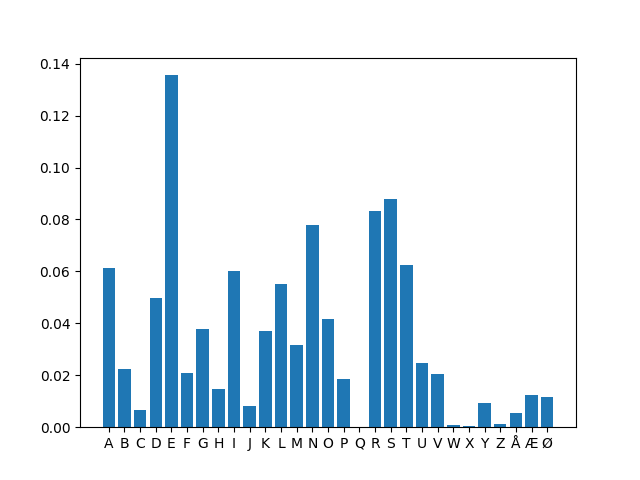
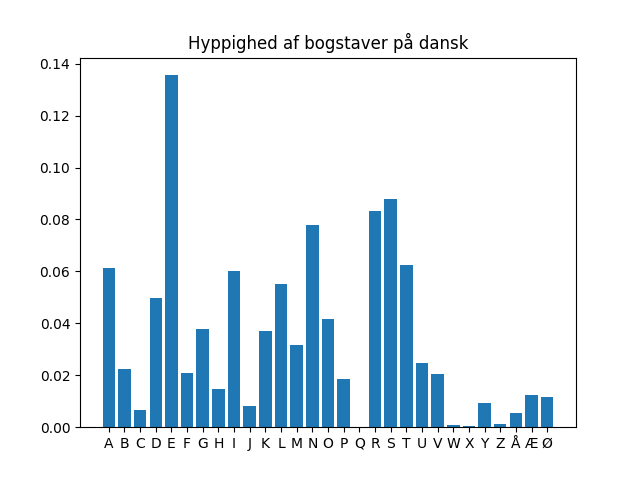
fig

Changed region(s): [[0.2812, 0.0625, 0.75, 0.125]]

diff --git a/src/preprocess.py b/src/preprocess.py
@@ -38,6 +38,7 @@ y = [freqs[key] for key in keys]
 total = sum(y)
 y = [val/total for val in y]
 plt.bar(x, y)
+plt.title('Hyppighed af bogstaver på dansk')
 plt.savefig('../images/frekvenser.png')
 with open('../data/frekvenser.csv', 'w') as fo:
     fo.write(f'BOGSTAV,FREKVENS\n')

diff --git a/GENERATE.md b/GENERATE.md
@@ -1,1 +1,20 @@
 # Program til at genere spilleplader
+
+Generator-algoritmen:
+1. vælg tilfældigt et ord på mellem 5-8 tegn fra ordbogen
+1. placer ordet tilfældigt på spillepladen ved hjælp af placerings-algoritmen
+1. udfyld tomme felter ved at sample et bogstav fra det danske alfabet med sandsynlighed = frekvens af bogstav (se figur).
+
+Placerings-algoritmen:
+
+1. vælg et tilfældigt startsted på pladen og skriv første bogstav der
+1. vælg tilfældigt en ubrugt nabo til næste bogstav
+1. hvis hele ord placeret: afslut
+1. hvis ikke flere ubrugte naboer, gå til 1 (prøv forfra)
+1. gå til 2
+
+Den relative frekvens af bogstaver på dansk ses i figuren herunder.
+
+![](./images/frekvenser.png)
+
+Cirka 13% af bogstaverne i danske ord er således bogstavet E, mens Æ og Ø begge udgør cirka 2% af bogstaverne i danske ord.

diff --git a/README.md b/README.md
@@ -125,7 +125,7 @@ MNOP
 ```
 
 
-> 👑 Jeg har allerede skrevet et par programmer, som kan lave tilfældige spilleplader. Du kan læse beskrivelsen af programmerne i filen [GENERATE.md](./GENERATE.md). Du er velkommen til at bruge dem som inspiration.
+> 👑 Jeg har allerede skrevet et program, der laver tilfældige spilleplader. Du kan læse beskrivelsen af programmet i filen [GENERATE.md](./GENERATE.md). Du er velkommen til at bruge det som inspiration.
 
 ### Spil spillet
 
